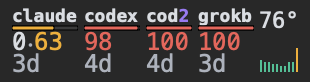
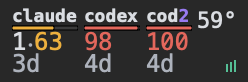
Pick the further-spent window for the bar and the clock
Keying off an exactly-zero 5h window was too narrow: one percent of the
5h pool was enough to put the bar back on a window with nothing in it
while the week sat at 63%. Compare the two and take whichever is further
spent.

diff --git a/README.md b/README.md
@@ -3,7 +3,7 @@
 Your AI subscription limits in the macOS menu bar. One strip, one block per account.
 
 <p align="center">
-  <img src="docs/menubar-accounts.png" alt="menu bar: claude · two codex accounts (one tagged cod) · grokb · 76° + load graph" width="300">
+  <img src="docs/menubar-accounts.png" alt="menu bar: claude · two codex accounts (one tagged cod) · 59° + load graph" width="300">
 </p>
 
 Each block: **% used** (5-hour · weekly, or just weekly) and **time until reset**
